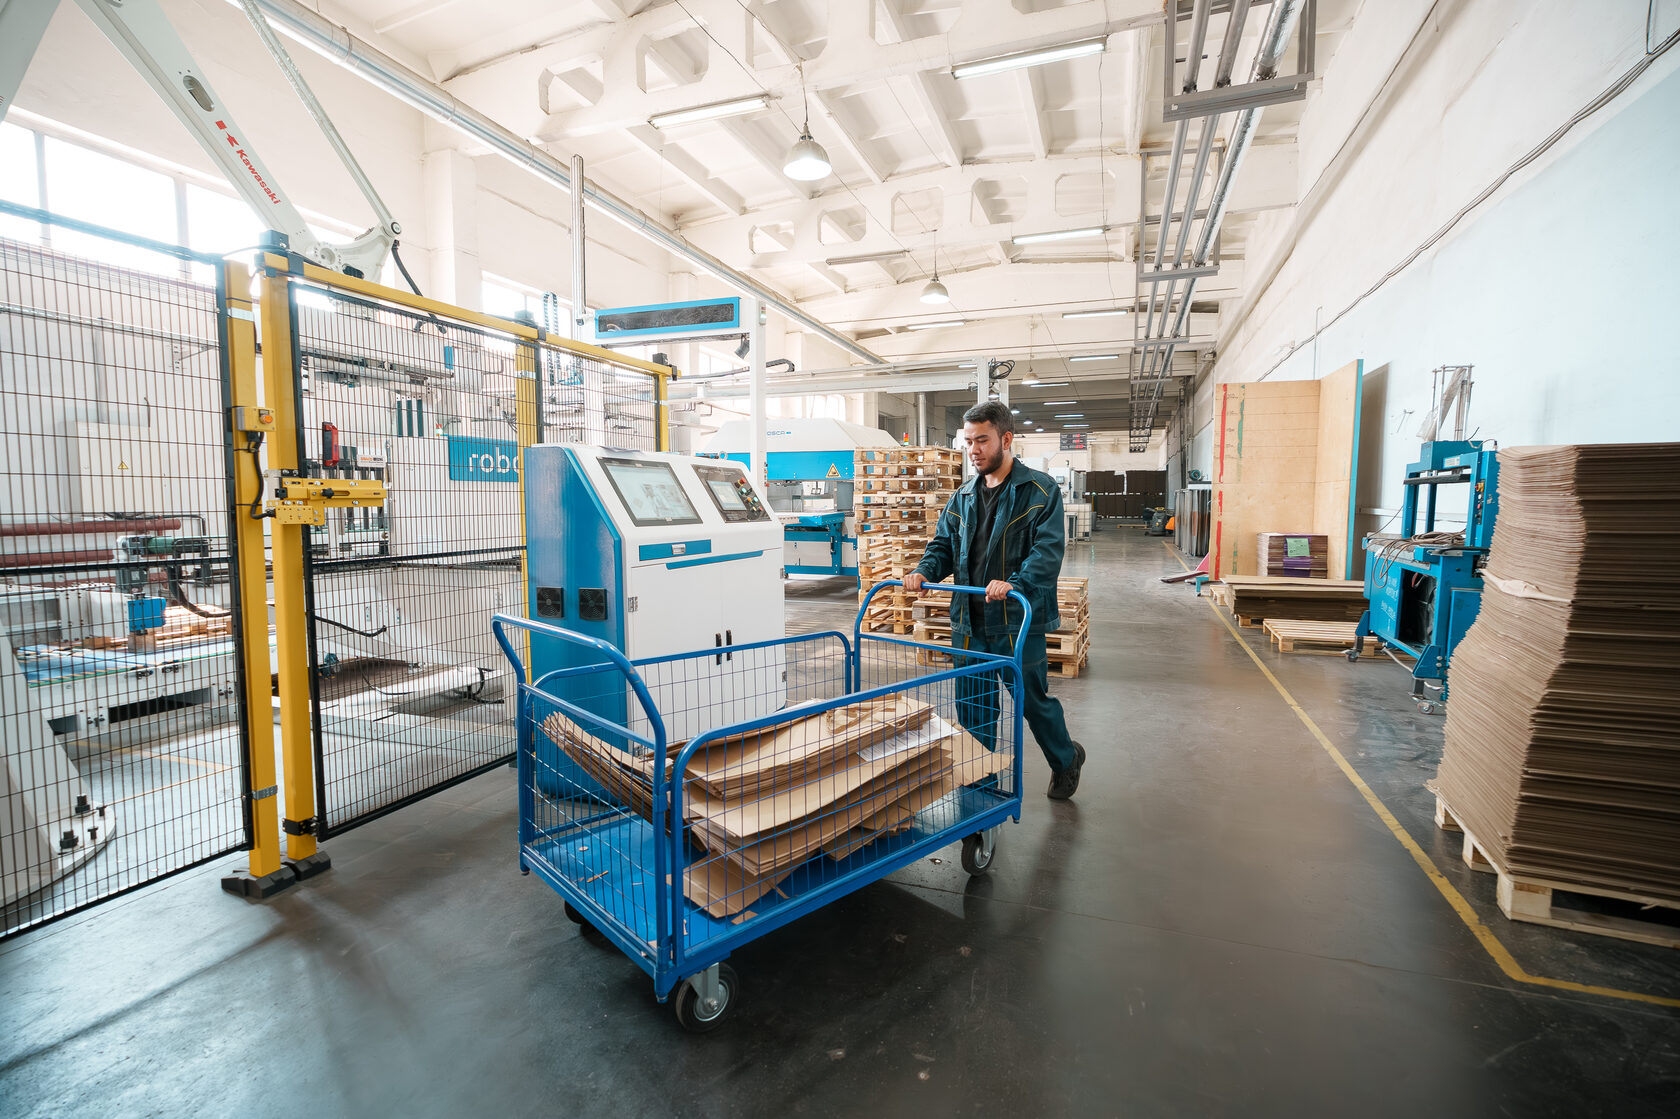
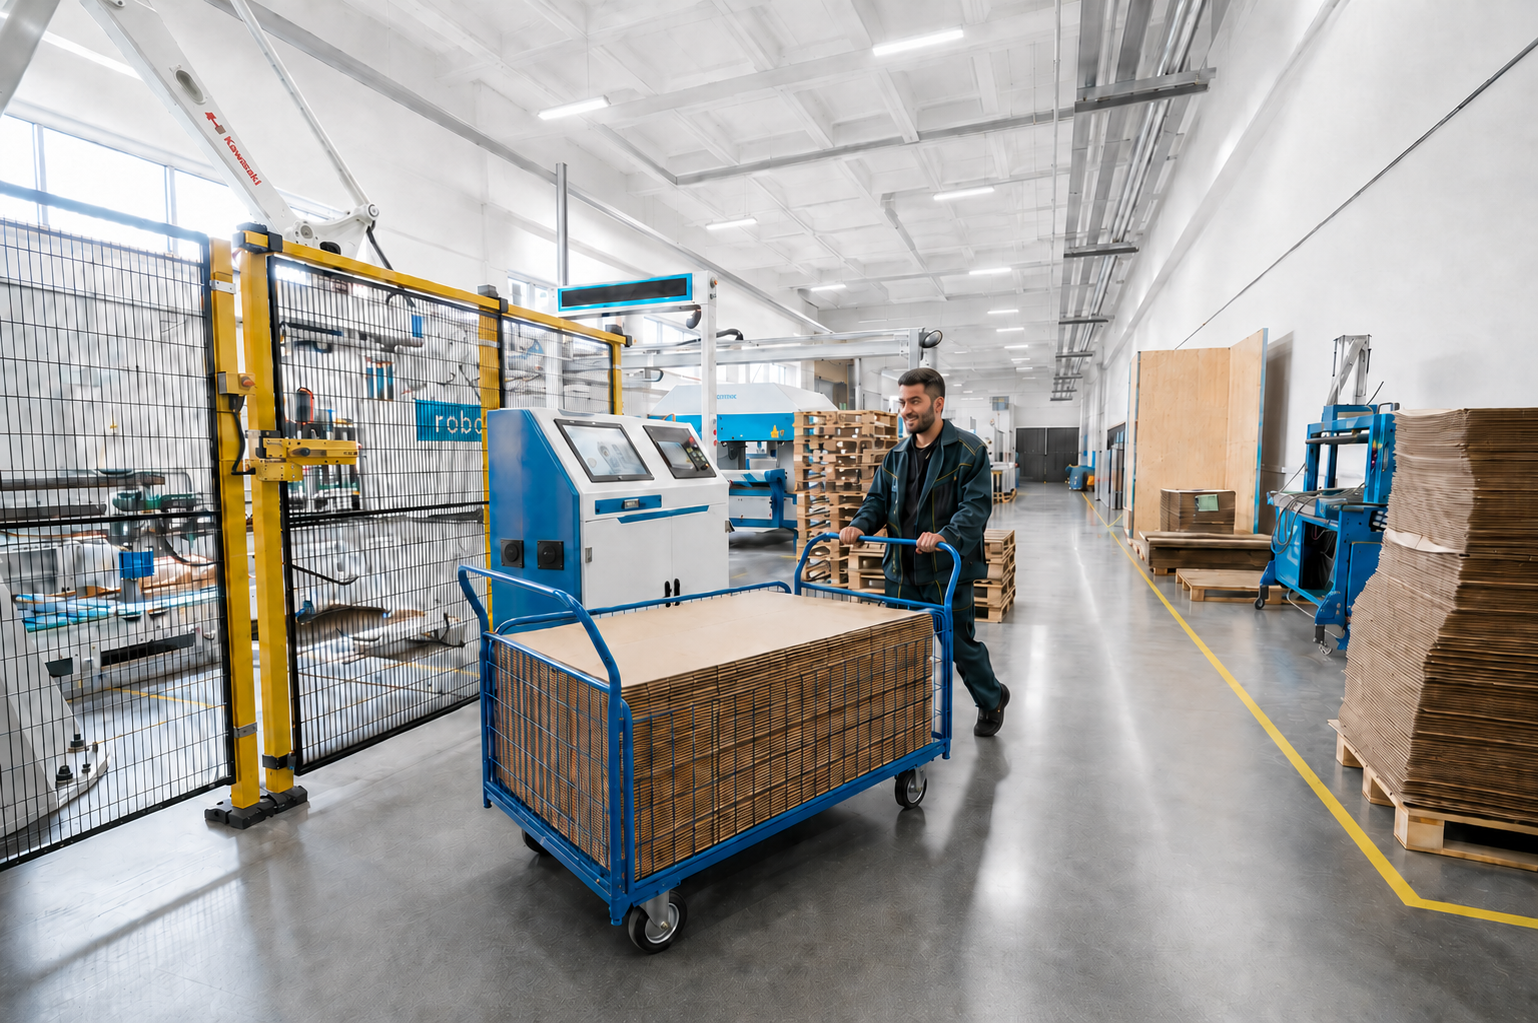
Add files via upload

diff --git a/styles.css b/styles.css
@@ -285,12 +285,7 @@ h3 {
 }
 
 .hero::after {
-  content: "";
-  position: absolute;
-  inset: auto 0 0;
-  height: 38%;
-  background: rgba(7, 9, 25, .22);
-  pointer-events: none;
+  display: none;
 }
 
 .hero-shell {
@@ -638,6 +633,8 @@ h3 {
 
 .services-main {
   min-width: 0;
+  display: grid;
+  grid-template-rows: auto 1fr;
 }
 
 .services .section-heading {
@@ -648,11 +645,12 @@ h3 {
   display: grid;
   grid-template-columns: repeat(3, 1fr);
   gap: 14px;
+  align-items: stretch;
 }
 
 .service-grid article {
-  min-height: 220px;
-  padding: 22px;
+  min-height: 0;
+  padding: 24px;
   border-radius: var(--radius);
   color: var(--white);
   background: var(--navy-2);
@@ -681,6 +679,7 @@ h3 {
 }
 
 .services-art {
+  height: 100%;
   min-height: 100%;
   overflow: hidden;
   border-radius: var(--radius);
@@ -691,7 +690,7 @@ h3 {
 .services-art img {
   width: 100%;
   height: 100%;
-  min-height: 420px;
+  min-height: 100%;
   display: block;
   object-fit: cover;
   object-position: center;
@@ -1029,7 +1028,7 @@ textarea:focus {
 .benefits {
   width: min(calc(100% - var(--gutter) * 2), var(--max));
   margin: var(--section-y-tight) auto 0;
-  padding: clamp(34px, 4vw, 56px) clamp(42px, 5vw, 68px) clamp(36px, 4vw, 58px);
+  padding: clamp(30px, 3.6vw, 50px) clamp(42px, 5vw, 68px) clamp(34px, 3.6vw, 52px);
   border-radius: var(--radius);
   background: var(--white);
   box-shadow: 0 18px 50px rgba(17, 24, 39, .08);
@@ -1040,7 +1039,7 @@ textarea:focus {
   grid-template-columns: minmax(0, .88fr) minmax(500px, .62fr);
   gap: clamp(10px, 2vw, 36px);
   align-items: start;
-  margin-bottom: clamp(18px, 2vw, 26px);
+  margin-bottom: clamp(6px, 1.2vw, 16px);
 }
 
 .benefits-intro .section-heading {
@@ -1057,12 +1056,12 @@ textarea:focus {
   display: grid;
   place-items: start;
   overflow: visible;
-  transform: translateX(-28px) translateY(-44px);
+  transform: translateX(-20px) translateY(-26px);
 }
 
 .benefits-intro-art img {
-  width: min(102%, 600px);
-  max-height: clamp(340px, 25vw, 500px);
+  width: min(92%, 520px);
+  max-height: clamp(280px, 21vw, 410px);
   object-fit: contain;
   filter: drop-shadow(0 26px 34px rgba(17, 24, 39, .14));
 }
@@ -1794,7 +1793,7 @@ cite {
   max-height: none;
   justify-self: start;
   align-self: center;
-  transform: translateX(-24px) scale(1.04);
+  transform: translateX(8px) scale(1.04);
   transform-origin: center;
   object-fit: contain;
   filter: drop-shadow(0 24px 34px rgba(17, 24, 39, .14));
@@ -2118,11 +2117,16 @@ cite {
   }
 
   .services-art {
+    height: auto;
     min-height: 360px;
   }
 
   .services-art img {
     min-height: 360px;
+  }
+
+  .services-main {
+    min-height: 0;
   }
 
   .product-intro-copy {

diff --git a/index.html b/index.html
@@ -159,7 +159,7 @@
           <div class="production-gallery reveal">
             <figure class="wide"><img src="production-1.jpg" alt="Производственный цех"><figcaption>Автоматическая линия</figcaption></figure>
             <figure><img src="production-2.jpg" alt="Склад рулонов картона"><figcaption>Сырьевой склад</figcaption></figure>
-            <figure><img src="production-3.jpg" alt="Линии обработки"><figcaption>Линии обработки</figcaption></figure>
+            <figure><img src="production-3.jpg" alt="Линии переработки"><figcaption>Линии переработки</figcaption></figure>
           </div>
           <div class="process-list" id="workflow">
             <article class="reveal"><span>01</span><h3>Конструкция</h3><p>Подбираем профиль, марку картона и формат под вес, хранение и маршрут доставки.</p></article>

diff --git a/script.js b/script.js
@@ -183,7 +183,7 @@ const startProductSlider = () => {
     const activeIndex = Math.max(0, productTabs.findIndex((tab) => tab.classList.contains("is-active")));
     const next = productTabs[(activeIndex + 1) % productTabs.length];
     setProduct(next);
-  }, 5200);
+  }, 3900);
 };
 
 const resetProductSlider = () => {